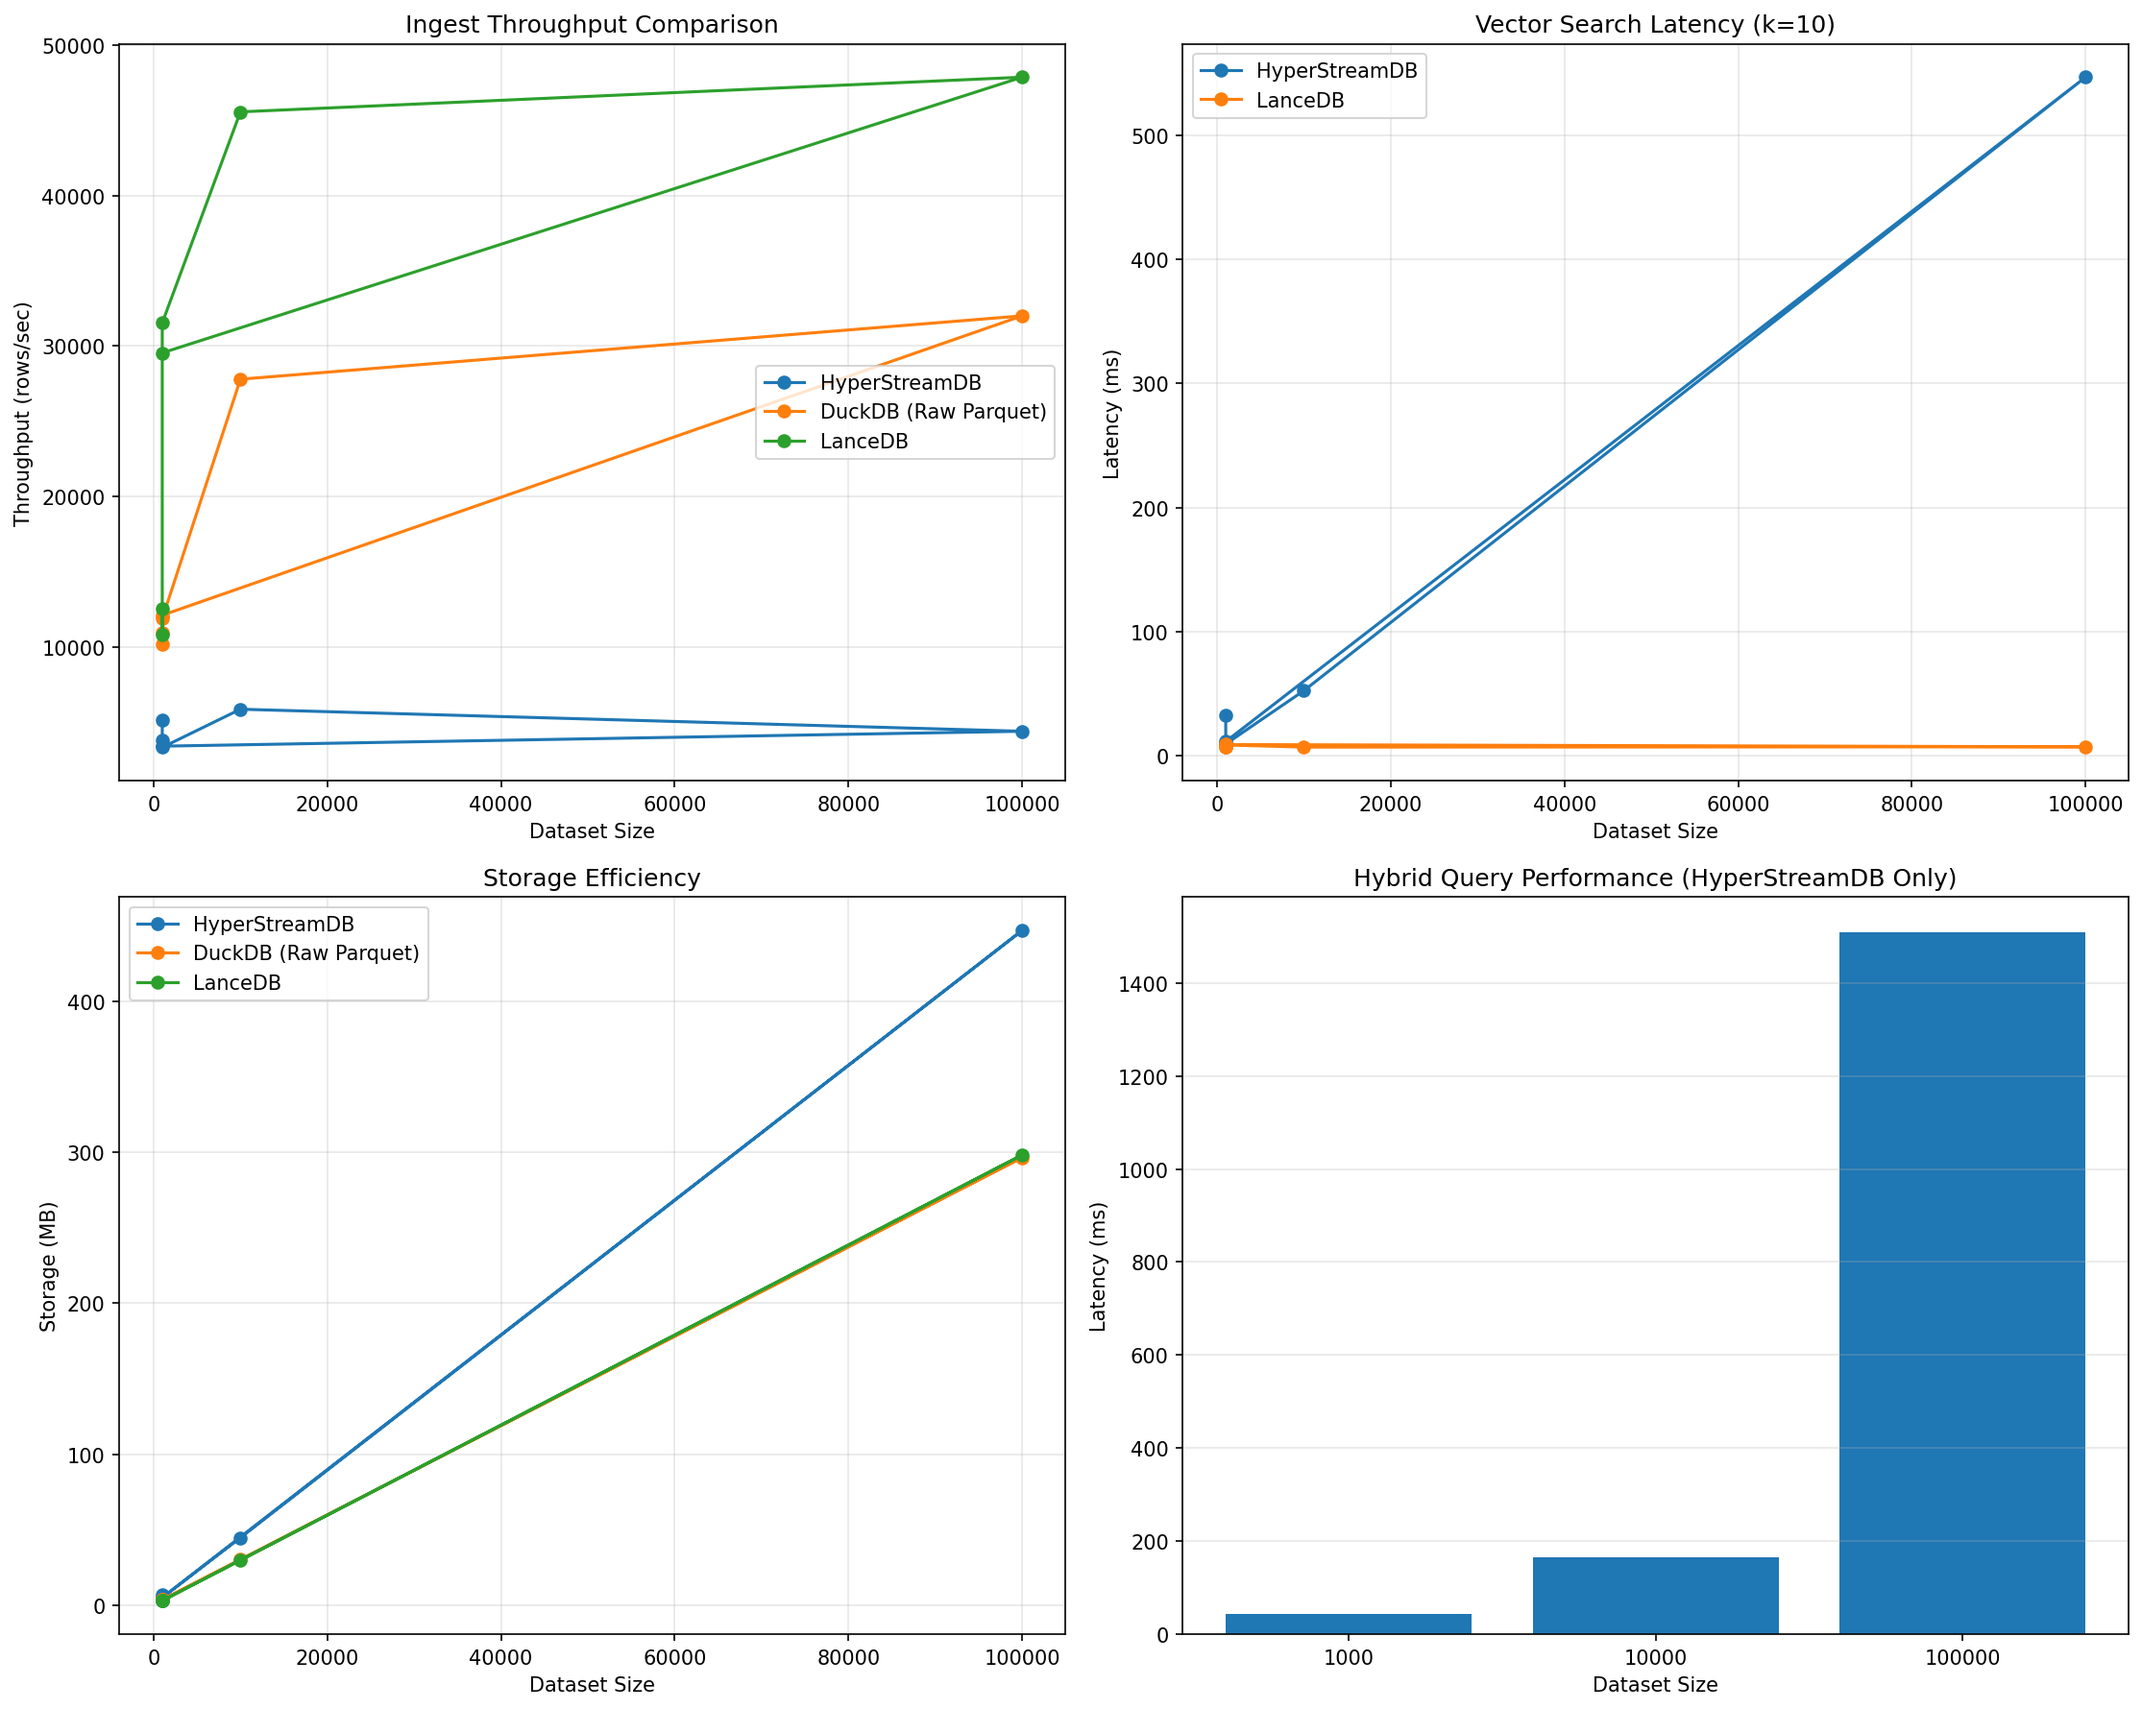
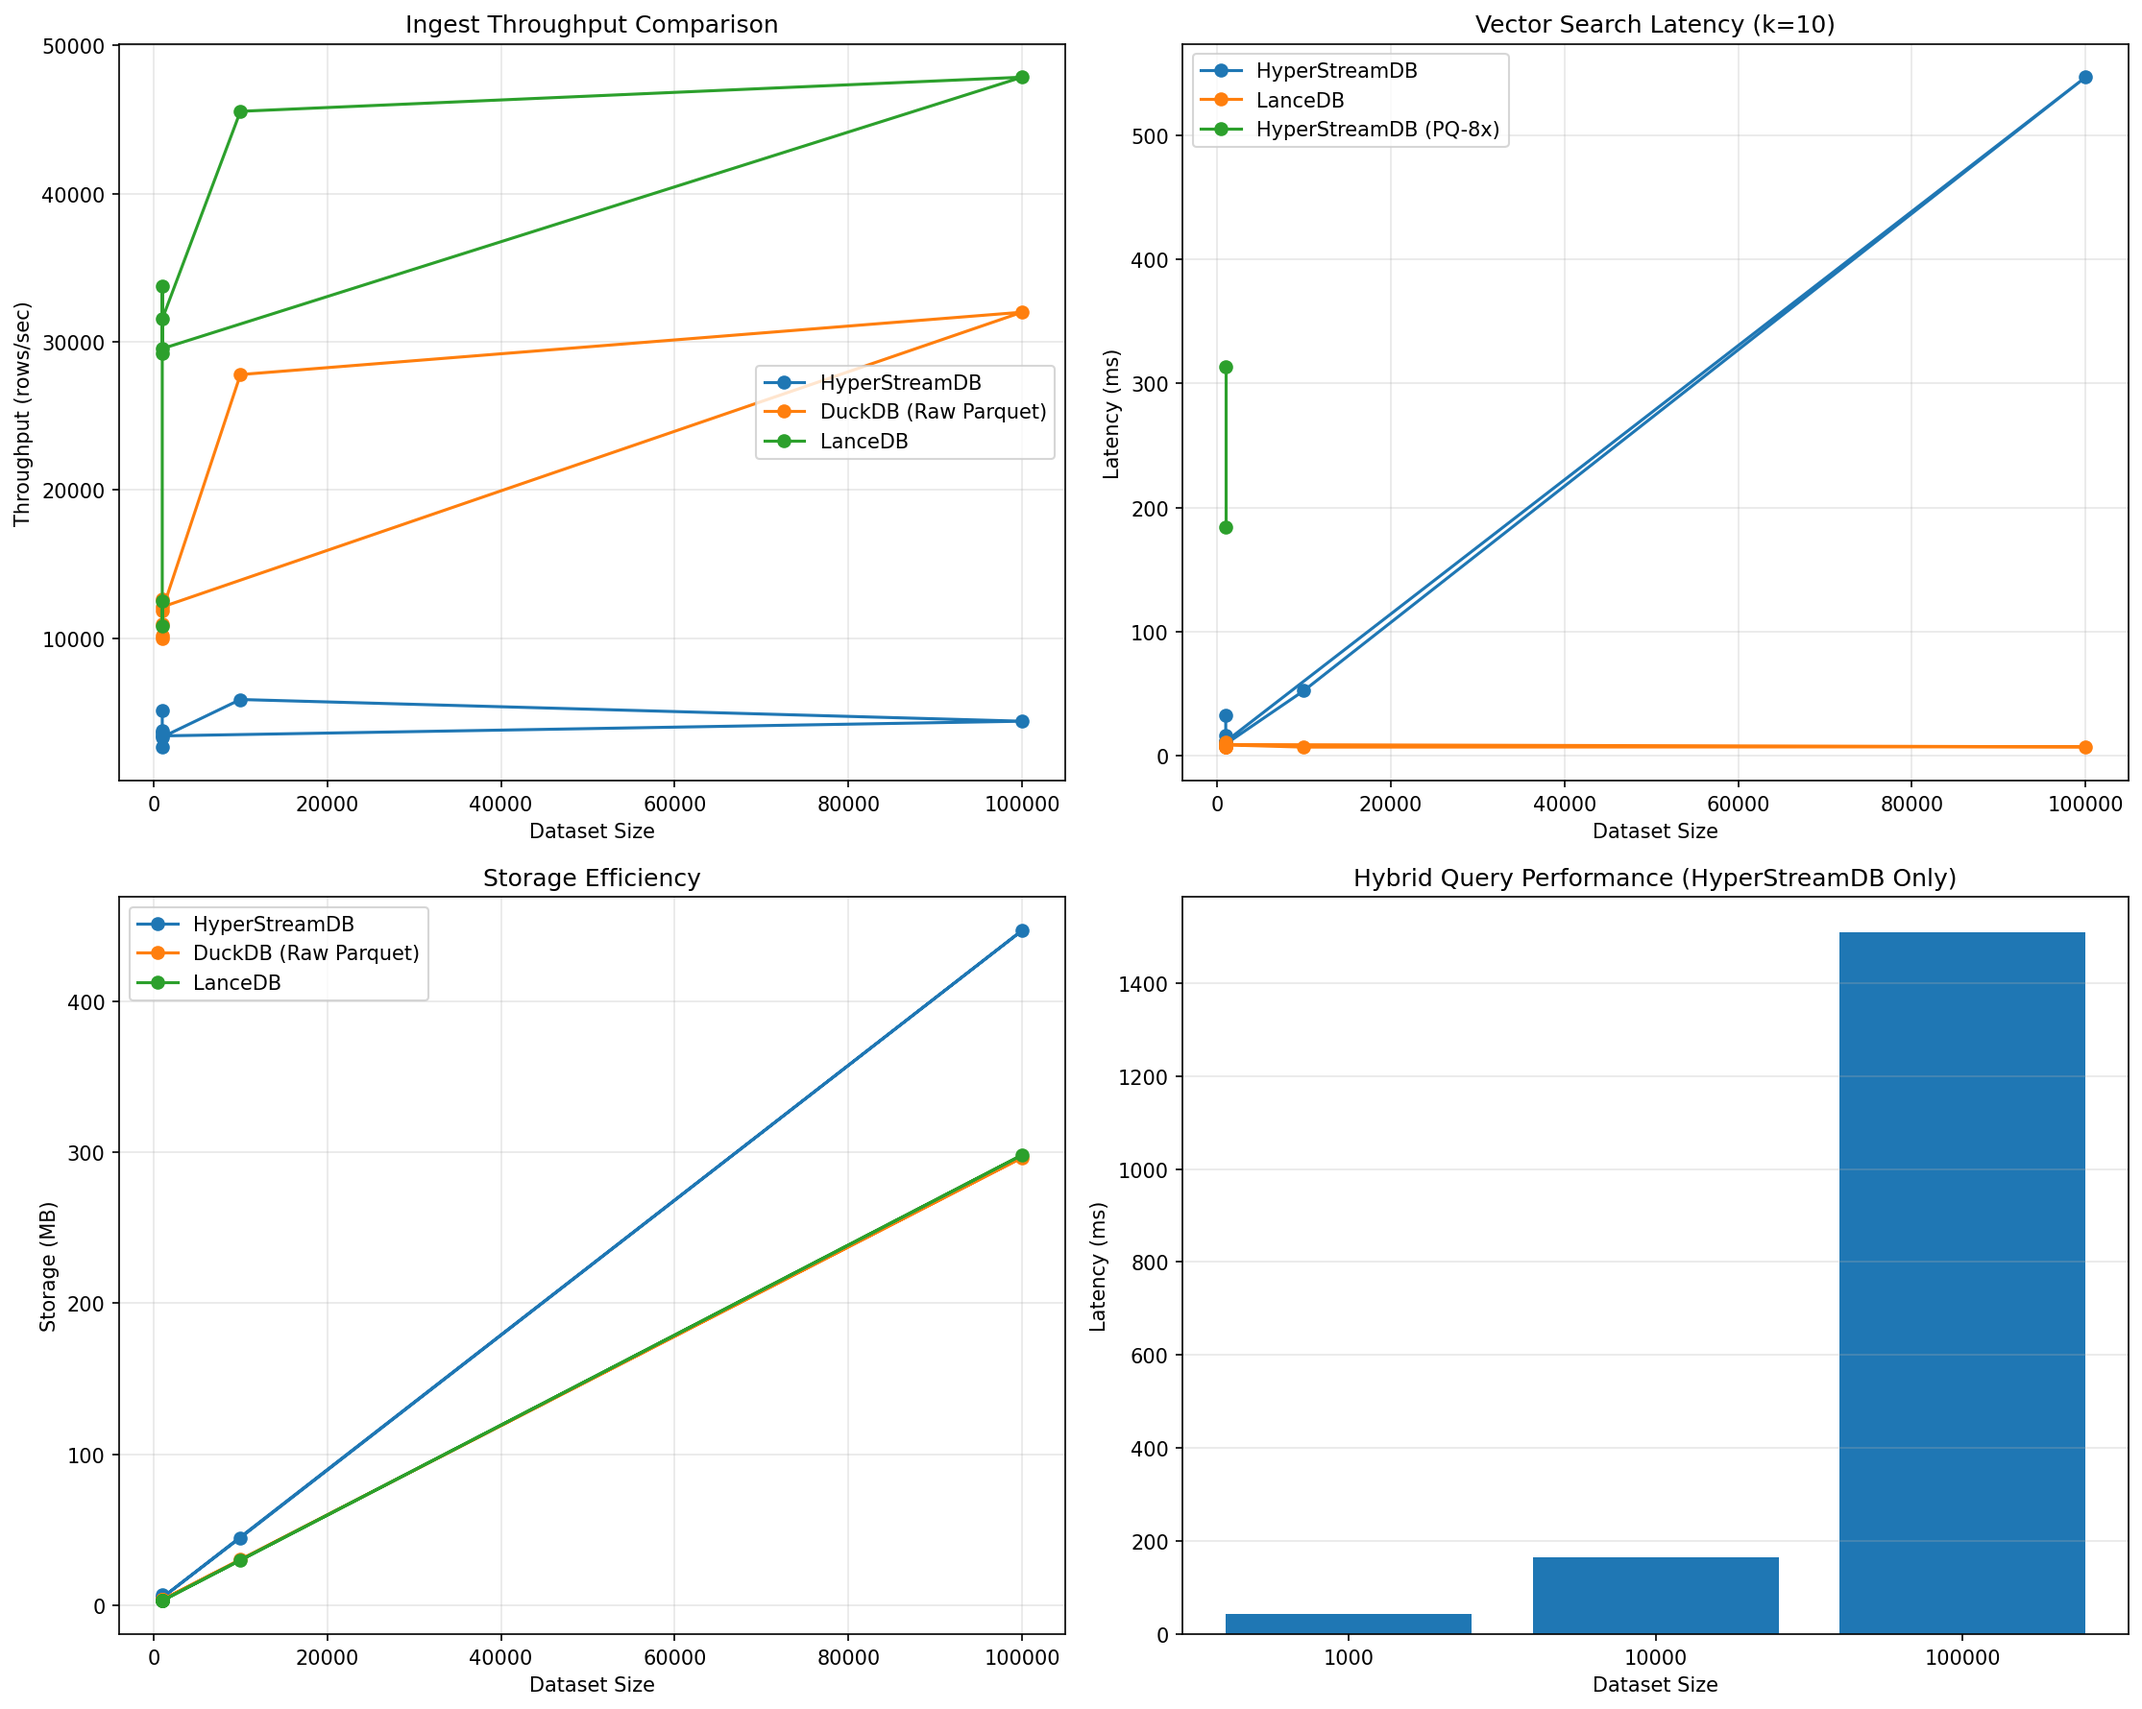
Add profiling scripts and benchmark updates

diff --git a/benchmarks/competitive/benchmark_suite.py b/benchmarks/competitive/benchmark_suite.py
@@ -258,6 +258,63 @@ class CompetitiveBenchmark:
         print(f"  ✓ {avg_latency:.1f}ms avg, {p99_latency:.1f}ms p99")
         return result
     
+    def benchmark_hyperstreamdb_vector_search_pq(self, n_rows: int, k: int = 10, dim: int = 768) -> BenchmarkResult:
+        """Benchmark HyperStreamDB vector search with Product Quantization (PQ)"""
+        if not HAS_HYPERSTREAMDB:
+            return None
+            
+        print(f"\n[HyperStreamDB] Benchmarking PQ vector search ({n_rows:,} rows, k={k})...")
+        
+        vectors, metadata = self.generate_test_data(n_rows, dim)
+        query_vector = vectors[0]
+        
+        with tempfile.TemporaryDirectory() as tmpdir:
+            uri = f"file://{tmpdir}/test_table"
+            table = hdb.Table(uri)
+            
+            # Use 8x compression (m = dim / 8)
+            table.add_pq_index("embedding", compression=8)
+            
+            metadata['embedding'] = list(vectors)
+            table.write_pandas(metadata)
+            table.commit()
+            table.wait_for_background_tasks() # MUST wait for index to be built
+            
+            # Warm-up query
+            try:
+                _ = table.search('embedding', query_vector.tolist(), k=k)
+            except Exception as e:
+                print(f"  ⚠ Warm-up failed: {e}")
+                print(f"  ⚠ Skipping PQ search benchmark (index not available)")
+                return None
+            
+            # Benchmark
+            latencies = []
+            for _ in range(10):
+                start = time.time()
+                try:
+                    results = table.search('embedding', query_vector.tolist(), k=k)
+                    latencies.append((time.time() - start) * 1000)
+                except Exception as e:
+                    print(f"  ⚠ Search failed: {e}")
+                    return None
+            
+            avg_latency = np.mean(latencies)
+            p99_latency = np.percentile(latencies, 99)
+            
+        result = BenchmarkResult(
+            system="HyperStreamDB (PQ-8x)",
+            operation=f"vector_search_k{k}",
+            dataset_size=n_rows,
+            latency_ms=avg_latency,
+            hardware=self.hardware,
+            device_type=self.device,
+            metadata={'p99_ms': p99_latency, 'dim': dim, 'compression': 8}
+        )
+        self.results.append(result)
+        print(f"  ✓ {avg_latency:.1f}ms avg, {p99_latency:.1f}ms p99")
+        return result
+    
     def benchmark_hyperstreamdb_hybrid_query(self, n_rows: int, k: int = 10, dim: int = 768) -> BenchmarkResult:
         """Benchmark HyperStreamDB hybrid query (scalar + vector)"""
         if not HAS_HYPERSTREAMDB:
@@ -507,6 +564,7 @@ class CompetitiveBenchmark:
             # Vector search benchmarks
             for k in [10, 100]:
                 self.benchmark_hyperstreamdb_vector_search(size, k=k)
+                self.benchmark_hyperstreamdb_vector_search_pq(size, k=k)
                 self.benchmark_lancedb_vector_search(size, k=k)
             
             # Hybrid query benchmarks

diff --git a/benchmarks/competitive/profile_search.py b/benchmarks/competitive/profile_search.py
@@ -1,0 +1,45 @@
+import cProfile
+import pstats
+import time
+import numpy as np
+import hyperstreamdb as hdb
+import tempfile
+import sys
+
+def main():
+    with tempfile.TemporaryDirectory() as tmpdir:
+        table = hdb.Table(f"file://{tmpdir}/test_table")
+        
+        n_rows = 1000
+        dim = 768
+        np.random.seed(42)
+        vectors = np.random.rand(n_rows, dim).astype(np.float32)
+        
+        table.add_pq_index("embedding", compression=8)
+        import pandas as pd
+        df = pd.DataFrame({'embedding': list(vectors)})
+        table.write_pandas(df)
+        table.commit()
+        table.wait_for_background_tasks()
+        
+        query_vector = np.random.rand(dim).astype(np.float32)
+        
+        # Warmup
+        table.search('embedding', query_vector.tolist(), k=10)
+        
+        def run_search():
+            for _ in range(50):
+                table.search('embedding', query_vector.tolist(), k=10)
+        
+        print("Starting profiling...")
+        start = time.time()
+        cProfile.runctx('run_search()', globals(), locals(), 'search.prof')
+        elapsed = time.time() - start
+        
+        print(f"Elapsed time for 50 searches: {elapsed:.3f} s ({(elapsed*1000)/50:.3f} ms/search)")
+        
+        p = pstats.Stats('search.prof')
+        p.strip_dirs().sort_stats('cumtime').print_stats(20)
+
+if __name__ == "__main__":
+    main()

diff --git a/src/python/table.rs b/src/python/table.rs
@@ -276,6 +276,19 @@ impl PyTable {
             .map_err(|e| pyo3::exceptions::PyRuntimeError::new_err((e.to_string(), )))
     }
 
+    /// Add a Product Quantization (PQ) index for a vector column
+    #[pyo3(signature = (column, compression=8))]
+    fn add_pq_index(&mut self, column: String, compression: usize) -> PyResult<()> {
+        let algo = crate::core::manifest::IndexAlgorithm::HnswPq {
+            metric: "l2".to_string(),
+            compression,
+            complexity: 16,
+            quality: 128,
+        };
+        self.table.runtime().block_on(self.table.add_index(column, algo))
+            .map_err(|e| pyo3::exceptions::PyRuntimeError::new_err((e.to_string(), )))
+    }
+
     /// Remove columns from indexing configuration
     fn remove_index_columns(&mut self, columns: Vec<String>) {
         self.table.remove_index_columns(columns);
